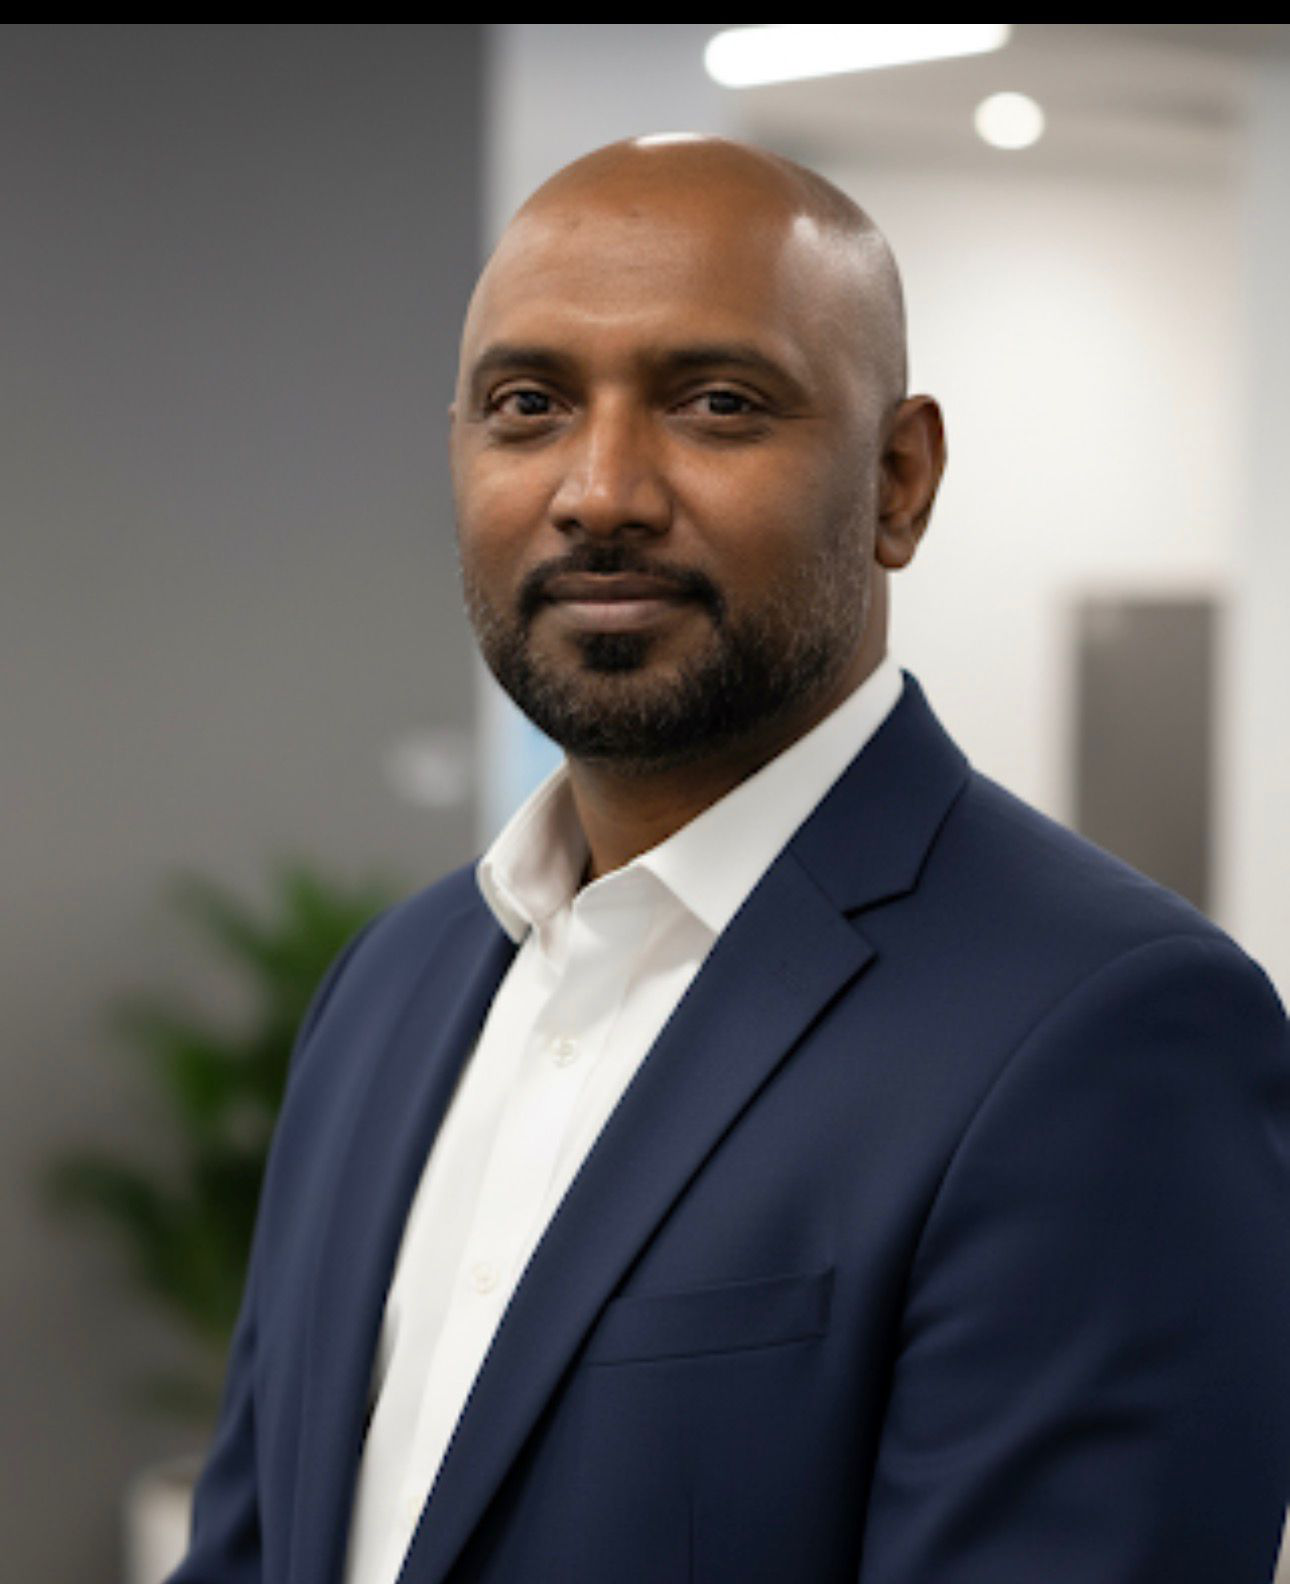
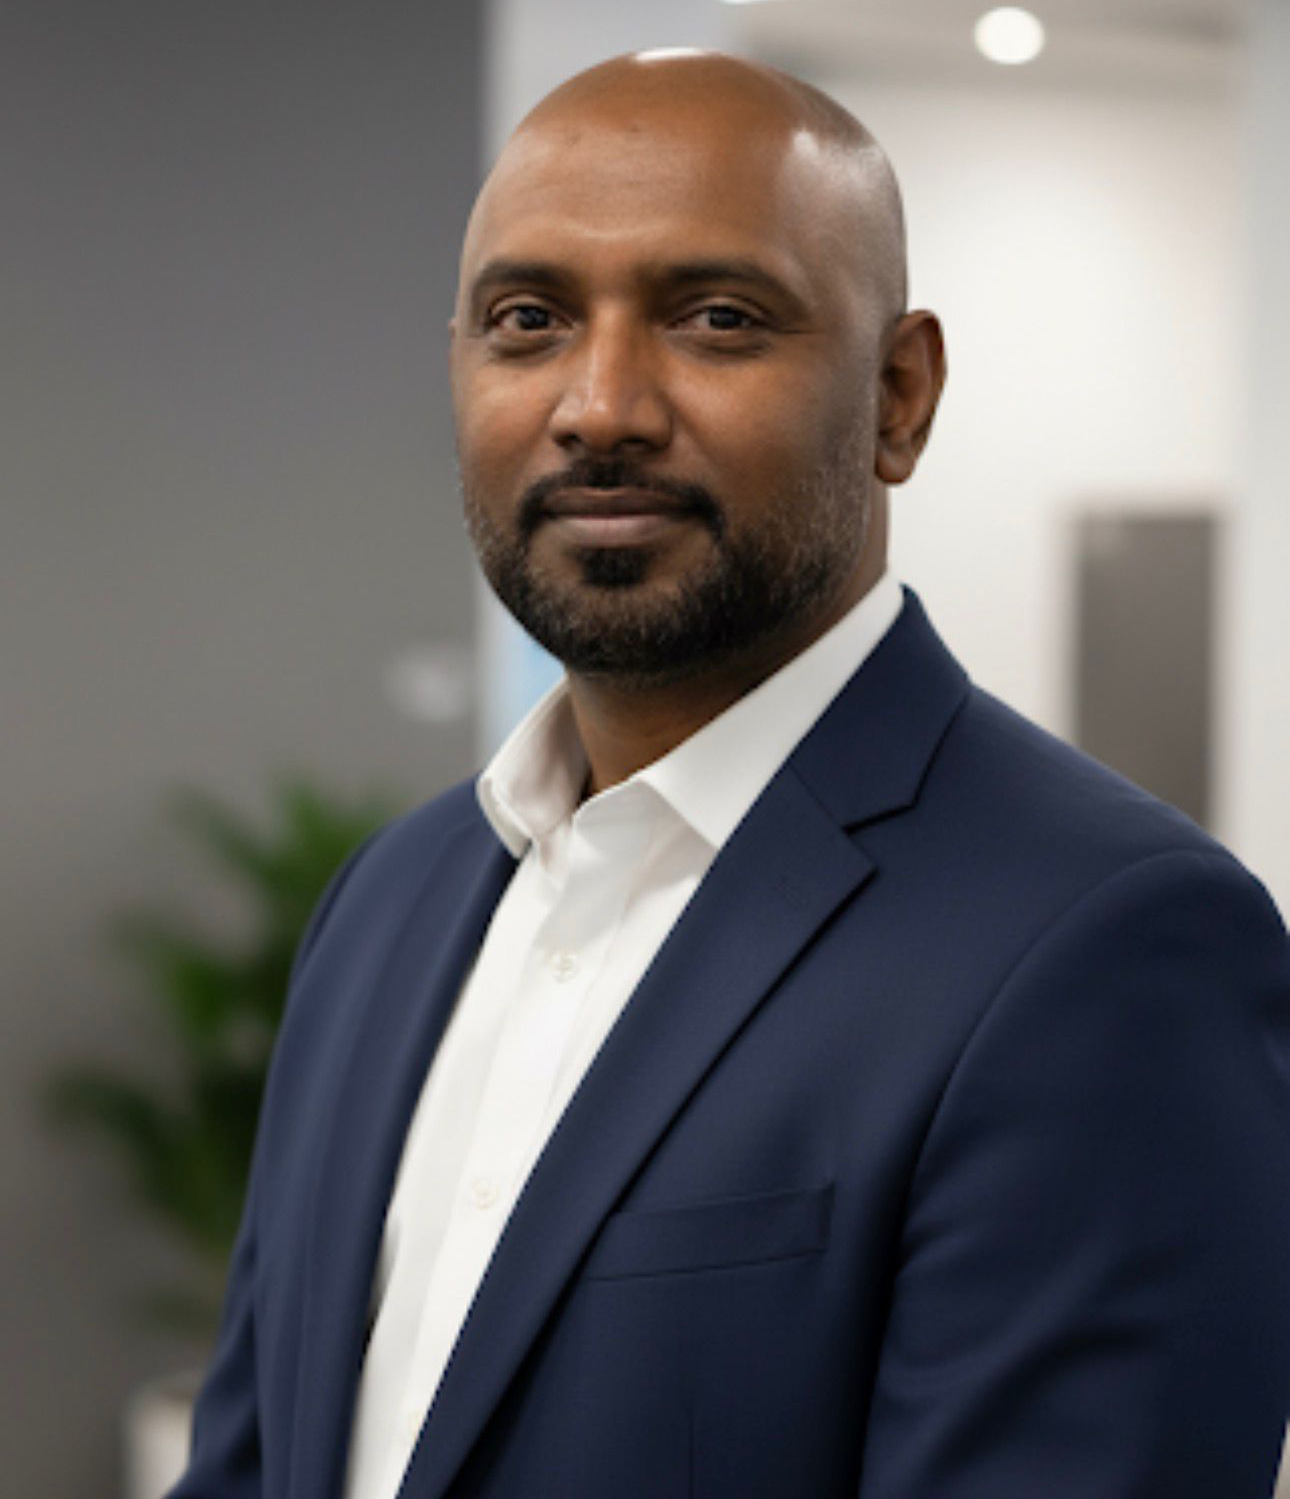
updated home page

diff --git a/resources/views/pages/home.blade.php b/resources/views/pages/home.blade.php
@@ -19,70 +19,70 @@
             'desc'  => 'Providing skilled and unskilled general workers to meet the day-to-day operational needs of multiple industries.',
             'img'   => 'images/manpowersupply.png',
             'badge' => 'Consultancy',
-            'badgeColor' => 'text-orange-700',
-            'hoverColor' => 'group-hover:text-orange-700',
-            'borderColor'=> 'hover:border-orange-200',
-            'gradient'   => 'from-orange-500/5',
+            'badgeColor' => 'text-red-700',
+            'hoverColor' => 'group-hover:text-red-700',
+            'borderColor'=> 'hover:border-red-200',
+            'gradient'   => 'from-red-500/5',
         ],
         [
             'title' => 'Accessibility Solutions',
             'desc'  => 'Custom stairway installations that ensure maximum safety, minimal space usage, and low-maintenance accessibility.',
             'img'   => 'images/accessibility.png',
             'badge' => 'Solutions',
-            'badgeColor' => 'text-green-700',
-            'hoverColor' => 'group-hover:text-green-700',
-            'borderColor'=> 'hover:border-green-200',
-            'gradient'   => 'from-green-500/5',
+            'badgeColor' => 'text-red-700',
+            'hoverColor' => 'group-hover:text-red-700',
+            'borderColor'=> 'hover:border-red-200',
+            'gradient'   => 'from-red-500/5',
         ],
         [
             'title' => 'Escalators',
             'desc'  => 'Smooth and efficient escalator systems with low noise, energy-saving technology, and flexible indoor/outdoor designs.',
             'img'   => 'images/escalators.png',
             'badge' => 'Engineering',
-            'badgeColor' => 'text-green-700',
-            'hoverColor' => 'group-hover:text-green-700',
-            'borderColor'=> 'hover:border-green-200',
-            'gradient'   => 'from-green-500/5',
+            'badgeColor' => 'text-red-700',
+            'hoverColor' => 'group-hover:text-red-700',
+            'borderColor'=> 'hover:border-red-200',
+            'gradient'   => 'from-red-500/5',
         ],
         [
             'title' => 'Home Lifts',
             'desc'  => 'Convenient and innovative lift solutions that enhance accessibility for seniors and differently-abled individuals.',
             'img'   => 'images/homelifts.png',
             'badge' => 'Accessibility',
-            'badgeColor' => 'text-green-700',
-            'hoverColor' => 'group-hover:text-green-700',
-            'borderColor'=> 'hover:border-green-200',
-            'gradient'   => 'from-green-500/5',
+            'badgeColor' => 'text-red-700',
+            'hoverColor' => 'group-hover:text-red-700',
+            'borderColor'=> 'hover:border-red-200',
+            'gradient'   => 'from-red-500/5',
         ],
         [
             'title' => 'Tourism',
             'desc'  => 'Personalized and customizable tour packages designed to create unforgettable travel experiences.',
             'img'   => 'images/tourism.png',
             'badge' => 'Travel',
-            'badgeColor' => 'text-green-700',
-            'hoverColor' => 'group-hover:text-green-700',
-            'borderColor'=> 'hover:border-green-200',
-            'gradient'   => 'from-green-500/5',
+            'badgeColor' => 'text-red-700',
+            'hoverColor' => 'group-hover:text-red-700',
+            'borderColor'=> 'hover:border-red-200',
+            'gradient'   => 'from-red-500/5',
         ],
         [
             'title' => 'Event Management',
             'desc'  => 'End-to-end event planning and execution corporate events, private functions, and large-scale gatherings managed with excellence.',
             'img'   => 'images/eventmanagement.png',
             'badge' => 'Events',
-            'badgeColor' => 'text-green-700',
-            'hoverColor' => 'group-hover:text-green-700',
-            'borderColor'=> 'hover:border-green-200',
-            'gradient'   => 'from-green-500/5',
+            'badgeColor' => 'text-red-700',
+            'hoverColor' => 'group-hover:text-red-700',
+            'borderColor'=> 'hover:border-red-200',
+            'gradient'   => 'from-red-500/5',
         ],
         [
             'title' => 'Event Item Supply',
             'desc'  => 'Providing complete event essentials including sound, lighting, stage setups, and décor to make every occasion seamless and impactful.',
             'img'   => 'images/eventitemsupply.png',
             'badge' => 'Support',
-            'badgeColor' => 'text-green-700',
-            'hoverColor' => 'group-hover:text-green-700',
-            'borderColor'=> 'hover:border-green-200',
-            'gradient'   => 'from-green-500/5',
+            'badgeColor' => 'text-red-700',
+            'hoverColor' => 'group-hover:text-red-700',
+            'borderColor'=> 'hover:border-red-200',
+            'gradient'   => 'from-red-500/5',
         ],
     ];
 @endphp
@@ -456,7 +456,6 @@
     </div>
 </section>
 
-
 <!--CEO Message Section -->
 <section class="py-24 lg:py-32 bg-white relative overflow-hidden">
     <!-- Background Elements -->
@@ -481,7 +480,7 @@
                         <div class="relative z-10">
                             <img src="{{ asset('images/ceopicture.png') }}" 
                                  alt="Shiraq Shaleel - Founder / CEO" 
-                                 class="w-full max-w-md mx-auto rounded-3xl aspect-square object-cover shadow-2xl hover:shadow-3xl transition-shadow duration-500">
+                                 class="w-full max-w-md mx-auto rounded-3xl object-cover shadow-2xl hover:shadow-3xl transition-shadow duration-500">
                         </div>
                     </div>
                 </div>
@@ -544,7 +543,7 @@
                     <div class="relative inline-block">
                         <img src="{{ asset('images/ceopicture.png') }}" 
                              alt="Shiraq Shaleel - Founder / CEO" 
-                             class="w-48 h-48 md:w-64 md:h-64 rounded-3xl object-cover shadow-2xl mx-auto">
+                             class="w-full max-w-xs md:max-w-sm rounded-3xl object-contain shadow-2xl mx-auto">
                         
                     </div>
                 </div>
@@ -655,7 +654,7 @@
                         <div class="relative z-10">
                             <img src="{{ asset('images/coopicture.png') }}" 
                                  alt="Afdhal Arafath - Director / COO" 
-                                 class="w-full max-w-md mx-auto rounded-3xl aspect-square object-cover shadow-2xl hover:shadow-3xl transition-shadow duration-500">
+                                 class="w-full max-w-md mx-auto rounded-3xl object-cover shadow-2xl hover:shadow-3xl transition-shadow duration-500">
                         </div>
                     </div>
                 </div>
@@ -673,7 +672,7 @@
                     <div class="relative inline-block">
                         <img src="{{ asset('images/coopicture.png') }}" 
                              alt="Afdhal Arafath - Director / COO" 
-                             class="w-48 h-48 md:w-64 md:h-64 rounded-3xl object-cover shadow-2xl mx-auto">
+                             class="w-full max-w-xs md:max-w-sm rounded-3xl object-contain shadow-2xl mx-auto">
                     </div>
                 </div>
                 

diff --git a/resources/views/partials/footer.blade.php b/resources/views/partials/footer.blade.php
@@ -435,7 +435,7 @@
         <div class="mt-16 pt-8 border-t border-white/10">
             <div class="flex flex-col md:flex-row justify-between items-center gap-4">
                 <p class="font-inter text-sm text-white/60 text-center md:text-left order-2 md:order-1">
-                    © 2024 Max Holdings. All rights reserved.
+                    © 2025 Max Holdings. All rights reserved.
                 </p>
                 
                 <!-- Developed by Endevo Digital -->
@@ -443,8 +443,7 @@
                     <p class="font-inter text-sm text-white/60 text-center">
                         Developed by 
                         <a href="https://endevodigital.com/index" target="_blank" rel="noopener noreferrer"
-                            class="font-poppins font-semibold text-transparent bg-clip-text bg-gradient-to-r from-red-400 via-orange-400 to-red-500 
-                                 hover:from-red-500 hover:via-orange-500 hover:to-red-600 transition-all duration-300 tracking-wide">
+                            class="font-poppins font-semibold text-white transition-all duration-300 tracking-wide">
                             Endevo Digital
                         </a>
                     </p>
